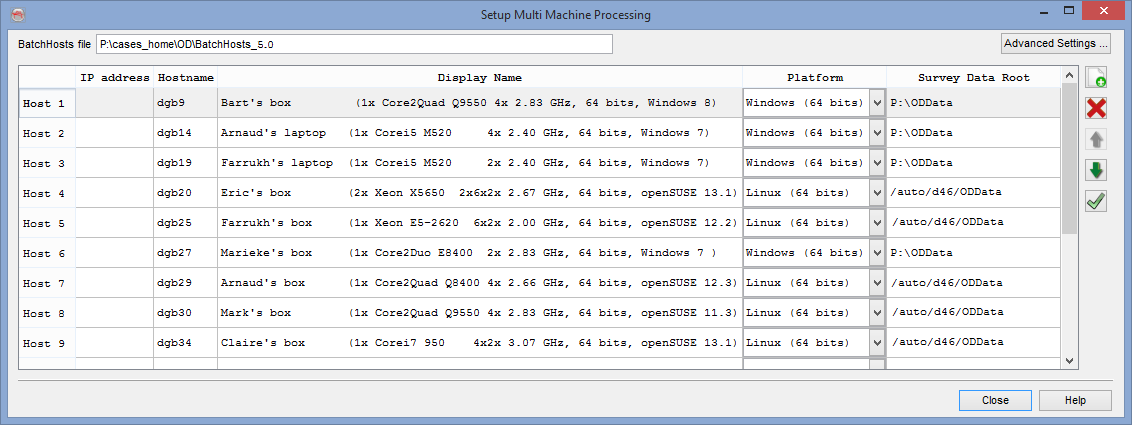
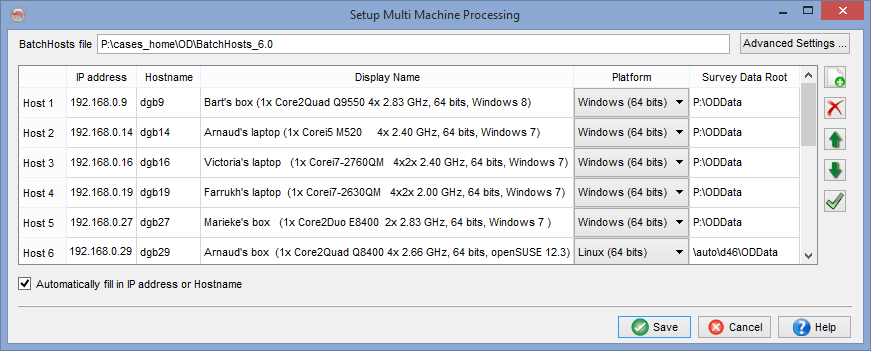
updated batch host images

Changed region(s): [[0.0, 0.0, 1.0, 0.9972]]

diff --git a/od_userdoc/Content/Utilities/Installation/Setup_Batch_Processing.htm b/od_userdoc/Content/Utilities/Installation/Setup_Batch_Processing.htm
@@ -1,12 +1,14 @@
 <?xml version="1.0" encoding="utf-8"?>
-<html xmlns:MadCap="http://www.madcapsoftware.com/Schemas/MadCap.xsd" MadCap:lastBlockDepth="4" MadCap:lastHeight="1021" MadCap:lastWidth="1464">
+<html xmlns:MadCap="http://www.madcapsoftware.com/Schemas/MadCap.xsd" MadCap:lastBlockDepth="4" MadCap:lastHeight="2283" MadCap:lastWidth="1039">
     <head>
     </head>
     <body>
         <h3>9.3.5 Setup Batch Processing<MadCap:keyword term="9.3.5 Setup Batch Processing" /></h3>
         <p>In order to utilize OpendTect's capability for Multi-Machine Processing (MMP), a <i>BatchHosts</i> file must be used. This file must contain  the list of remote machines (<i>host machines</i> or <i>nodes</i>) and some relevant details about these machines. Two BatchHosts_example files  come with the installation inside the OpendTect <i>data</i> folder, which may be amended for use. OpendTect will use this file to communicate to the remote hosts and launch processes remotely on them. Follow the example file format to add the list of remote machines and their details in the respective fields.</p>
-        <p>In order to minimize complications, the Setup Batch Processing tool can be used to create a tailor-made BatchHosts file (via <i>Utilities--&gt; Installation--&gt; Setup Batch Processing...</i>):</p>
+        <p>In order to minimize complications, the Setup Batch Processing tool (<b>Start OpendTect as ADMIN</b>)&#160;can be used to create a tailor-made BatchHosts file (via <i>Utilities--&gt; Installation--&gt; Setup Batch Processing...</i>):</p>
         <img src="../../Resources/Images/10.4 Installation/Installation setup batch proc.png" class="General_Image" />
+        <p style="font-weight: normal;"><b>BatchHosts file:</b> This field is not editable in the User Interface. It is set as a user environment variable:</p>
+        <img src="../../Resources/Images/10 Utilities/batchhost.png" class="General_Image" />
         <p>This tool allows the user to enter the details necessary for functioning MMP. On pressing 'Close', the file is saved. These include:</p>
         <p><b>IP address:</b> IP address of the node machine(s)</p>
         <p><b>Hostname:</b> Hostname of the node machine(s)</p>
